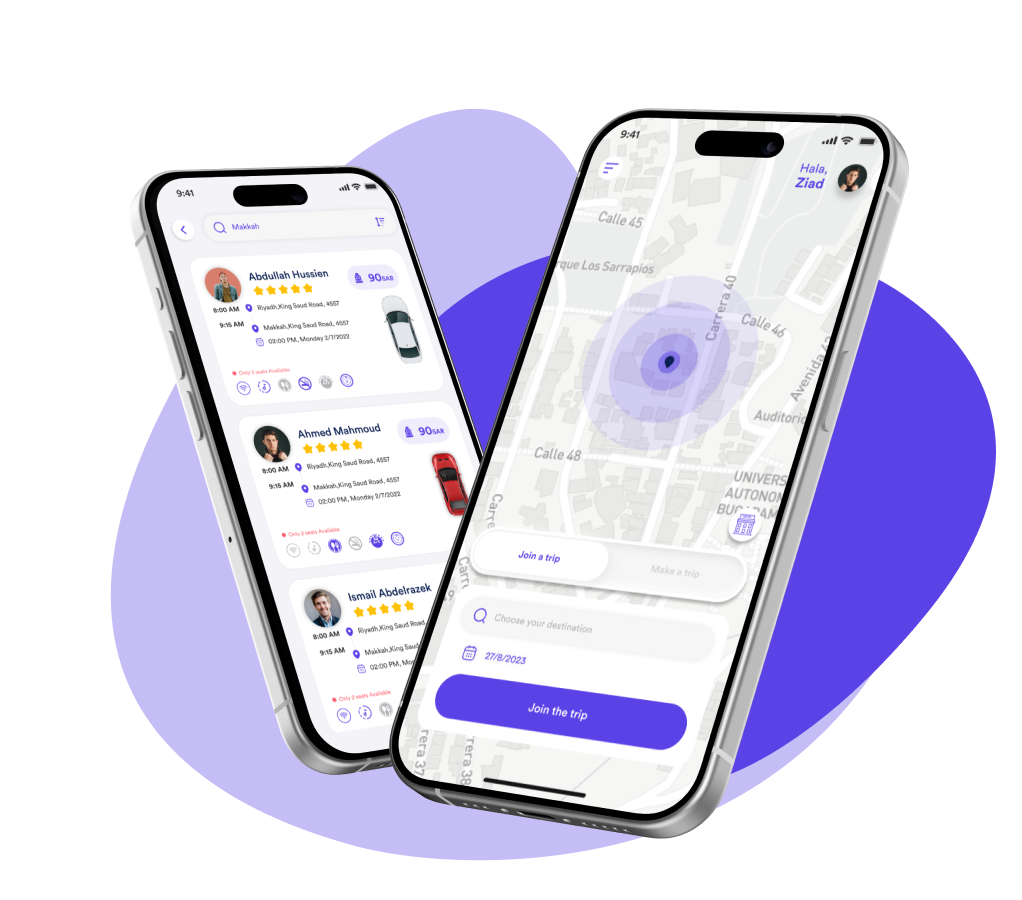
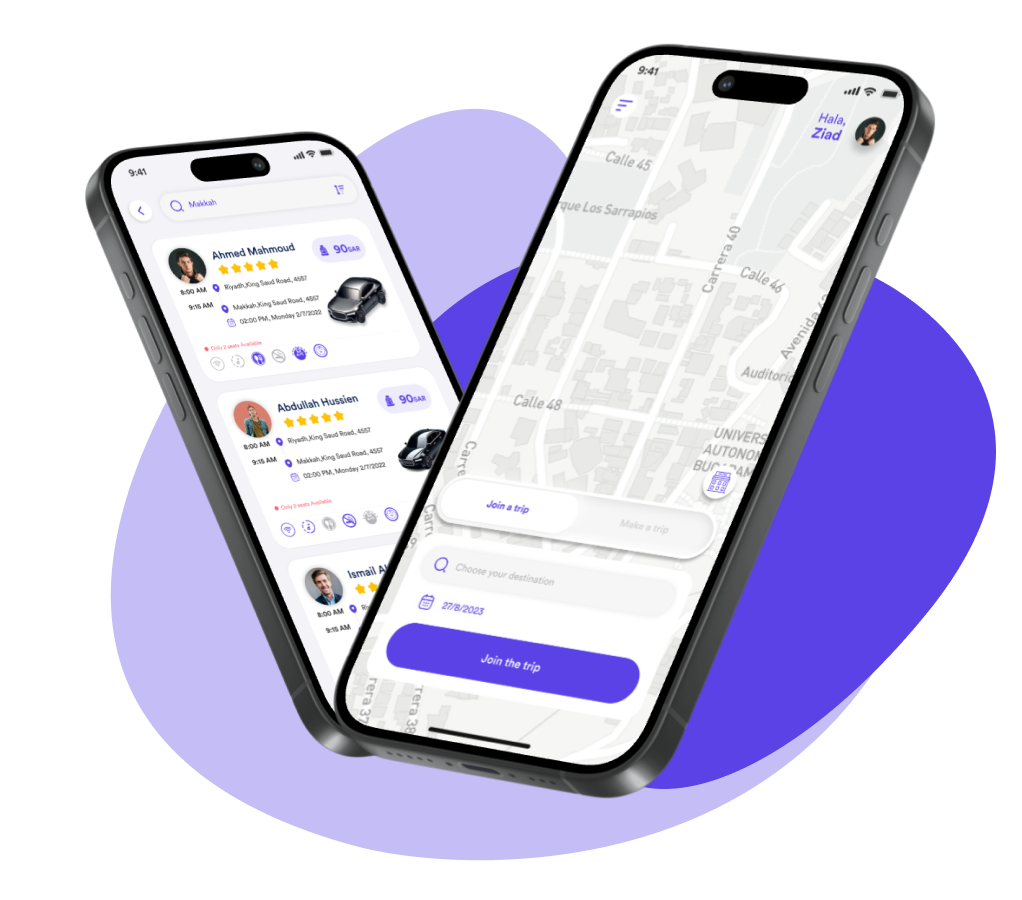
edit

Changed region(s): [[0.0607, 0.0311, 0.9403, 0.9333], [0.5157, 0.4978, 0.5763, 0.5289]]

diff --git a/src/app/[locale]/globals.css b/src/app/[locale]/globals.css
@@ -665,11 +665,14 @@ footer .content .part2 .part.mapLocation ul li a {
   flex: 1;
   min-width: 500px;
   position: relative;
+  height: 800px;
 }
 .app .content .part1 img {
   max-width: 100%;
   height: auto;
   object-fit: contain;
+  height: 100%;
+  object-position: center;
 }
 .app .content .part2 {
   flex: 1;
@@ -730,6 +733,9 @@ footer .content .part2 .part.mapLocation ul li a {
 .app .content .part2 ul li a svg {
 }
 @media (max-width: 992px) {
+  .app .content .part1 {
+    height: 524px;
+  }
   .app .content .part1 {
     flex: 0;
   }
@@ -811,7 +817,7 @@ footer .content .part2 .part.mapLocation ul li a {
   width: 100%;
   transition: 0.3s;
 }
-html[dir=ltr] .header .content .boxImg {
+html[dir="ltr"] .header .content .boxImg {
   transform: rotateY(180deg);
 }
 .header .content .boxImg img {
@@ -898,9 +904,8 @@ html[dir=ltr] .header .content .boxImg {
 }
 @media (max-width: 1200px) {
   .header .content {
-    
     gap: 20px;
-}
+  }
 }
 @media (max-width: 992px) {
   .header .content .img {
@@ -913,21 +918,20 @@ html[dir=ltr] .header .content .boxImg {
   }
   header .content h1 {
     font-size: 40px;
-    
+
     line-height: 60px;
-  
+
     margin-bottom: 14px;
-}
-.header .content p {
-  font-size: 20px;
-  line-height: 32px;
- 
-}
+  }
+  .header .content p {
+    font-size: 20px;
+    line-height: 32px;
+  }
 }
 @media (max-width: 768px) {
   .header {
     padding-bottom: 12px;
-}
+  }
   .header .content .dec {
     padding: 0px 6px;
   }
@@ -2601,8 +2605,11 @@ form .partImgFile .partImg svg:hover {
   width: 50px;
   border-radius: 100%;
   position: relative;
-  transform: rotate3d(1, 1, 4, -211deg);
+  transform: rotate3d(1, 1, 5, -180deg) translateY(-50%);
+  right: 35%;
+  top: 42%;
 }
+
 
 .ring {
   position: absolute;
@@ -2639,6 +2646,37 @@ form .partImgFile .partImg svg:hover {
     transform: scale(2.75);
     opacity: 0;
   }
+}
+@media (max-width: 2560px) {
+  .pulse {
+    
+  }
+}
+@media (max-width: 1400px) {
+  .pulse {
+    
+  }
+}
+@media (max-width: 1200px) {
+  .pulse {
+    right: 32%;
+
+  }
+}
+@media (max-width: 768px) {
+  .pulse {
+
+    zoom: 0.8;
+  }
+}
+@media (max-width: 430px) {
+  .pulse {
+    right: 32%;
+    
+  }
+  .app .content .part1 {
+    height: 416px;
+}
 }
 /*end*/
 
@@ -2759,9 +2797,13 @@ html[dir="ltr"] .mantine-Notification-root {
 }
 .goals .content .part p {
   color: white;
-  font-family: "cairoL";
+  font-family: "cairoB";
   font-size: 22px;
   line-height: 42px;
+  margin-bottom: 2px;
+}
+.goals .content .part p span {
+  font-family: "cairoL";
 }
 @media (max-width: 1000px) {
   .goals .content {
@@ -2805,12 +2847,12 @@ html[dir="ltr"] .mantine-Notification-root {
     padding: 20px 0px;
   }
 }
-.mantine-LoadingOverlay-root{
+.mantine-LoadingOverlay-root {
   position: fixed;
 }
-.mantine-PasswordInput-error{
+.mantine-PasswordInput-error {
   display: none;
 }
-.mantine-Select-error{
+.mantine-Select-error {
   display: none;
 }

diff --git a/src/app/[locale]/page.js b/src/app/[locale]/page.js
@@ -1,24 +1,22 @@
 import { useTranslations } from "next-intl";
 import "./globals.css";
 import { Link } from "../../navigation";
-import AppPart from '../../../Components/AppPart'
-import Questions from '../../../Components/Questions'
+import AppPart from "../../../Components/AppPart";
+import Questions from "../../../Components/Questions";
 
-export default function Home({params}) {
+export default function Home({ params }) {
   const t = useTranslations("home");
   return (
     <main>
       <section className="header">
-        <div className="con">
-          <div className="content">
-            <div className="boxImg">
-              <img src="/images/headerImg.webp" alt="header Img" />
-            </div>
+        <div className="content">
+          <div className="boxImg">
+            <img src="/images/headerImg.webp" alt="header Img" />
+          </div>
 
-            <div className="dec">
-              <h1>{t("about.title1")}</h1>
-              <p>{t("about.dec")}</p>
-            </div>
+          <div className="dec">
+            <h1>{t("about.title1")}</h1>
+            <p>{t("about.dec")}</p>
           </div>
         </div>
       </section>
@@ -76,38 +74,38 @@ export default function Home({params}) {
           </div>
         </div>
       </section>
- <AppPart/>
+      <AppPart />
 
       <section className="goals">
         <div className="con">
           <div className="content">
             <div className="part">
-              <h2>  {t("goals.title1")}</h2>
-              <p>
-              {t("goals.dec1")}
-              </p>
+              <h2> {t("goals.title1")}</h2>
+              <p>{t("goals.dec1")}</p>
             </div>
             <div className="part">
               <h2>{t("goals.title2")}</h2>
-              <p>
-              {t("goals.dec2")}
-              </p>
+              <p>{t("goals.dec2")}</p>
             </div>
             <div className="part">
               <h2>{t("goals.title3")}</h2>
               <p>
-              {t("goals.dec31")}
-                <br />
+                {t("goals.dec31")}
+                <span>{t("goals.dec311")}</span>
+              </p>
+              <p>
                 {t("goals.dec32")}
-                <br />
+                <span>{t("goals.dec322")}</span>
+              </p>
+
+              <p>
                 {t("goals.dec33")}
+                <span>{t("goals.dec333")}</span>
               </p>
             </div>
             <div className="part">
               <h2>{t("goals.title4")}</h2>
-              <p>
-              {t("goals.dec4")}
-              </p>
+              <p>{t("goals.dec4")}</p>
             </div>
           </div>
         </div>
@@ -123,9 +121,8 @@ export default function Home({params}) {
           </div>
         </div>
       </section>
-     
-<Questions lang={params.locale}/>
 
+      <Questions lang={params.locale} />
     </main>
   );
 }

diff --git a/Components/AppPart.js b/Components/AppPart.js
@@ -26,13 +26,14 @@ function AppPart() {
     <section className="app" id="app">
       <div className="con">
         <div className="content">
+          
           <div className="part1">
-            {/* <div class="pulse">
+          <div class="pulse">
             <div class="ring"></div>
             <div class="ring"></div>
             <div class="ring"></div>
             <div class="ring"></div>
-          </div> */}
+          </div> 
             <img src="/images/AppImg.png" alt="app" />
           </div>
           <div className="part2">

diff --git a/src/app/[locale]/captainsJoin/page.js b/src/app/[locale]/captainsJoin/page.js
@@ -597,6 +597,7 @@ res.data.status === 200 ? setFormOne(false) :null
                       <div className="partInput">
                         <Input
                           value={mobile}
+                          maxLength={9}
                           error={mobileErorr}
                           onChange={(e) => {
                             setMobile(e.target.value);

diff --git a/src/app/[locale]/investors/page.js b/src/app/[locale]/investors/page.js
@@ -341,6 +341,7 @@ function page({ params }) {
                     <div className="partInput">
                       <Input
                         value={mobile}
+                        maxLength={9}
                         error={mobileErorr}
                         onChange={(e) => {
                           setMobile(e.target.value);

diff --git a/Components/ContactUS.js b/Components/ContactUS.js
@@ -182,6 +182,7 @@ function ContactUS({ lang }) {
                   <div className="partInput">
                     <Input
                       value={mobile}
+                      maxLength={9}
                       placeholder={t("numPlace")}
                       onChange={(e) => {
                         setMobile(e.target.value);
